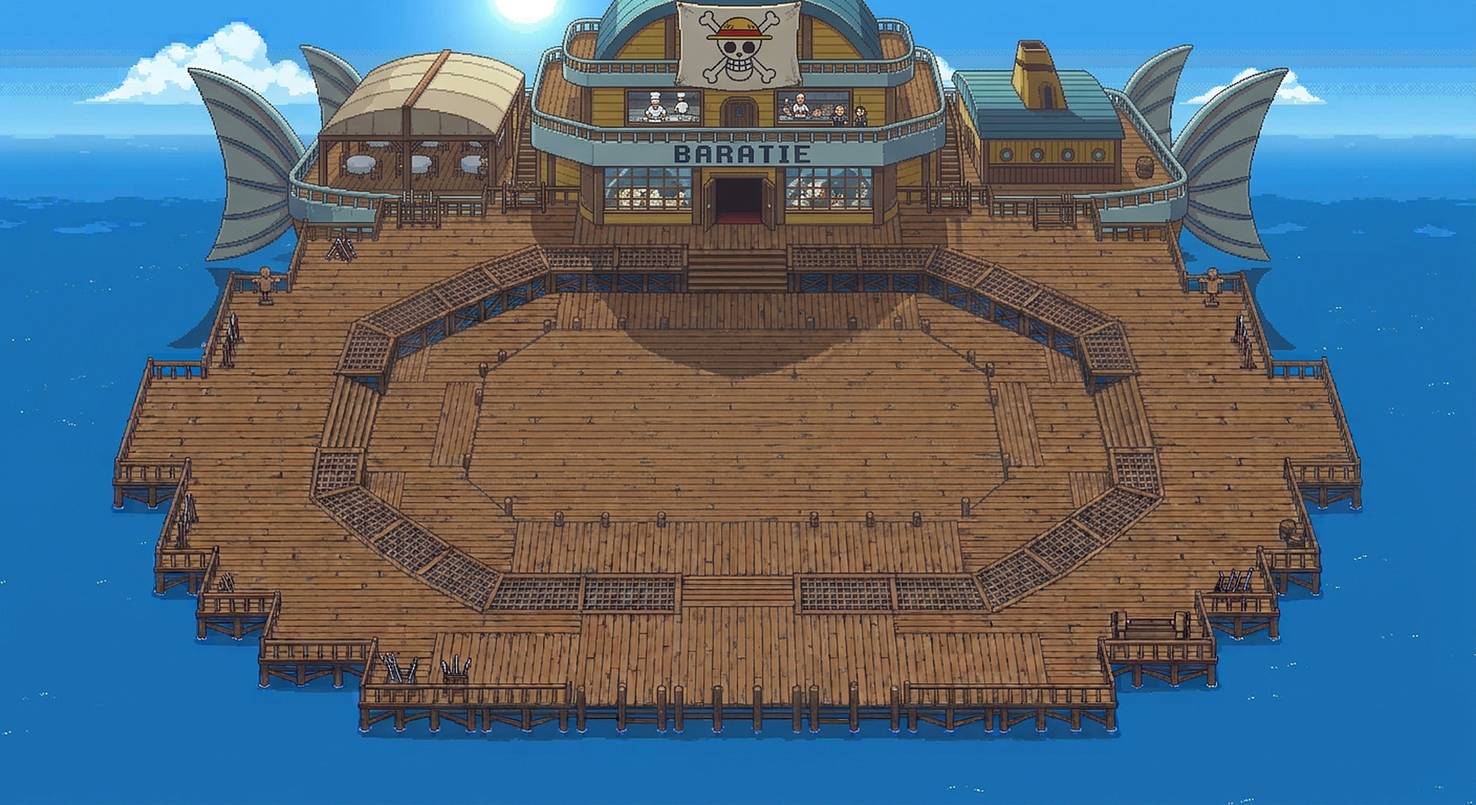
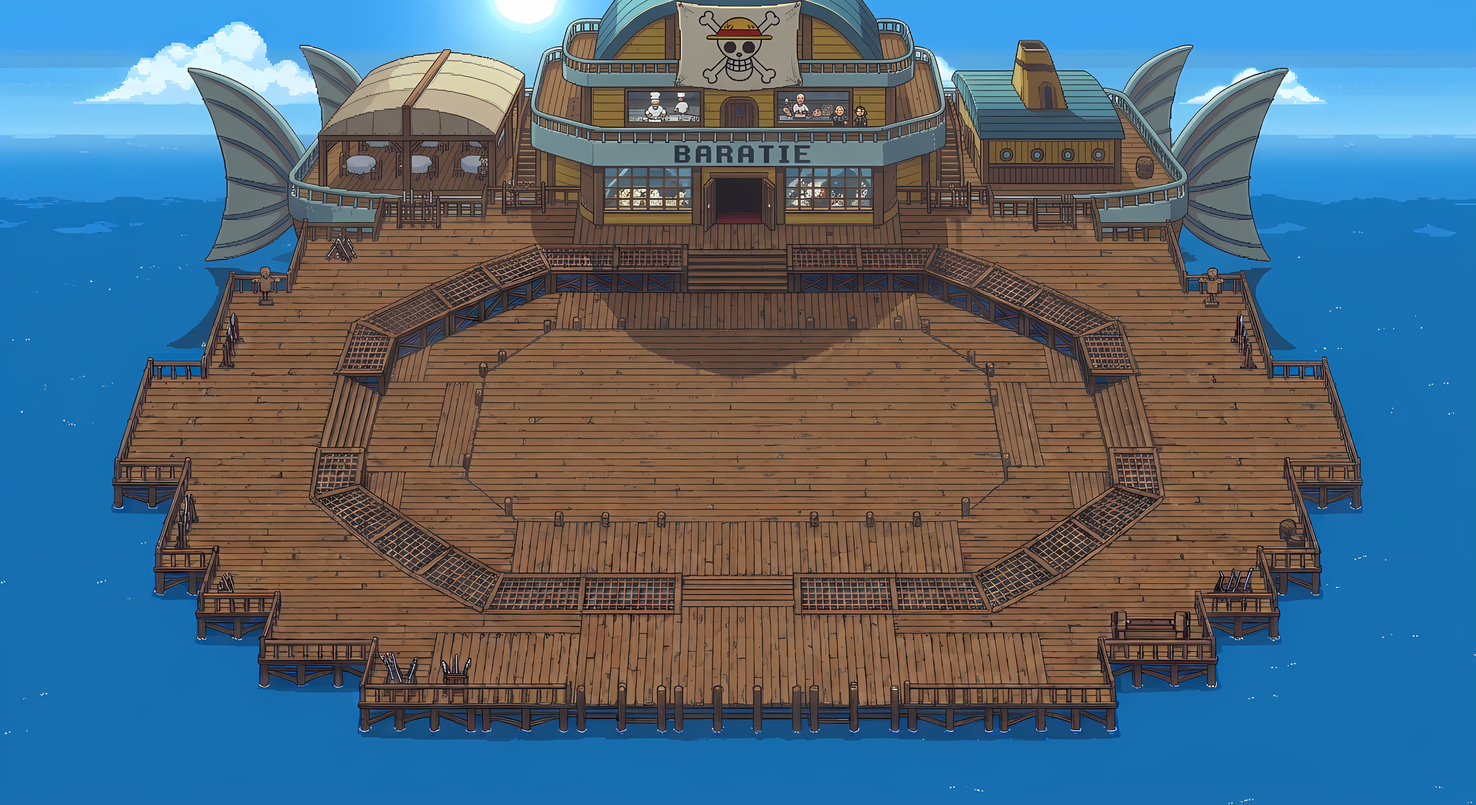
Mapas reescalados x2 con IA (Real-ESRGAN anime_6B), JPEG ≤1,5 MB
Mismos nombres y tamaño (2816x1536): colisiones y JS sin cambios.
escalar_mapas.py ahora usa el modelo en vez de Lanczos.

Claude-Session: https://claude.ai/code/session_01HBg7Bh8sobYohMZbtCVVZN

Changed region(s): [[0.0625, 0.0, 0.9375, 0.9062], [0.7812, 0.0312, 0.8125, 0.0938], [0.4688, 0.2812, 0.5, 0.3125]]

diff --git a/source-art/escalar_mapas.py b/source-art/escalar_mapas.py
@@ -1,9 +1,30 @@
-# Mapas en alta definición: escala el HD x2 (Lanczos) con un enfoque suave y lo guarda en JPEG.
-# Así 1 píxel de la imagen = 1 píxel de pantalla con MAP_SCALE 2 (antes 1 píxel = 4 tras el pixelado GBA).
-# Uso: python3 source-art/escalar_mapas.py source-art/maps/hd/<mapa>.png assets/maps/<mapa>.jpg
-import sys
-from PIL import Image, ImageFilter
-src, out = sys.argv[1], sys.argv[2]
+# Mapas en alta definición: reescala el HD x2 con IA (Real-ESRGAN, modelo anime_6B, para ilustración)
+# y lo guarda en JPEG de como mucho 1,5 MB. Mismas proporciones (2W x 2H), así que las colisiones no cambian.
+# Requisitos: pip install torch spandrel pillow numpy  (CPU basta: ~1,5 min por mapa con 4 núcleos)
+# Modelo: https://github.com/xinntao/Real-ESRGAN/releases/download/v0.2.2.4/RealESRGAN_x4plus_anime_6B.pth
+# Uso: python3 source-art/escalar_mapas.py RealESRGAN_x4plus_anime_6B.pth source-art/maps/hd/<mapa>.png assets/maps/<mapa>.jpg
+import io, sys, torch, numpy as np
+from PIL import Image
+from spandrel import ModelLoader
+
+MAX_BYTES = 1_500_000
+mp, src, out = sys.argv[1:4]
+m = ModelLoader().load_from_file(mp).eval()
 im = Image.open(src).convert('RGB'); W, H = im.size
-up = im.resize((W * 2, H * 2), Image.LANCZOS).filter(ImageFilter.UnsharpMask(radius=1.6, percent=55, threshold=2))
-up.save(out, quality=85, optimize=True, progressive=True, subsampling=0)
+x = torch.from_numpy(np.array(im)).permute(2, 0, 1).float().div(255).unsqueeze(0)
+s, T, P = m.scale, 256, 16  # teselas de 256 px con 16 px de margen para que no se noten las uniones
+y = torch.zeros(1, 3, H * s, W * s)
+with torch.inference_mode():
+    for ty in range(0, H, T):
+        for tx in range(0, W, T):
+            y0, x0, y1, x1 = max(ty - P, 0), max(tx - P, 0), min(ty + T + P, H), min(tx + T + P, W)
+            o = m(x[:, :, y0:y1, x0:x1]).clamp(0, 1)
+            ey, ex = min(ty + T, H), min(tx + T, W)
+            y[:, :, ty*s:ey*s, tx*s:ex*s] = o[:, :, (ty-y0)*s:(ey-y0)*s, (tx-x0)*s:(ex-x0)*s]
+r = Image.fromarray((y[0].permute(1, 2, 0).numpy() * 255 + 0.5).astype(np.uint8))
+if r.size != (W * 2, H * 2):
+    r = r.resize((W * 2, H * 2), Image.LANCZOS)  # el modelo es x4: se baja a x2 exacto
+for q in range(90, 59, -2):
+    b = io.BytesIO(); r.save(b, 'JPEG', quality=q, optimize=True, progressive=True, subsampling=0)
+    if b.tell() <= MAX_BYTES: break
+open(out, 'wb').write(b.getvalue()); print(out, r.size, f'q{q}', b.tell())
